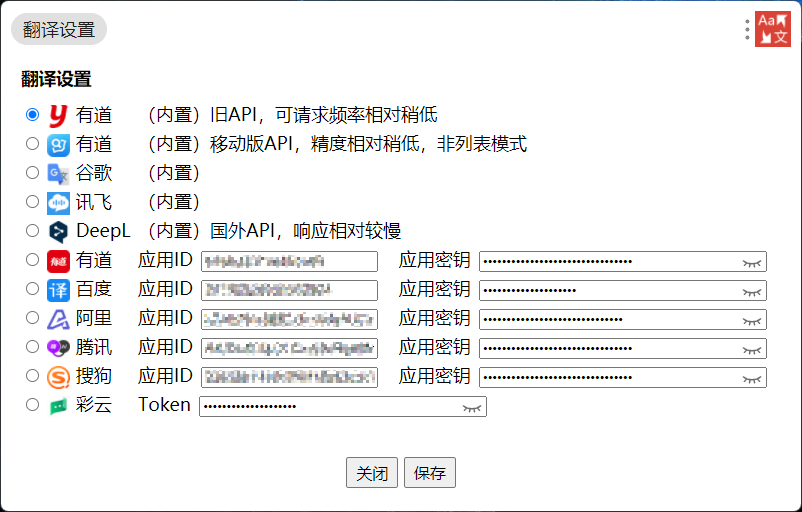
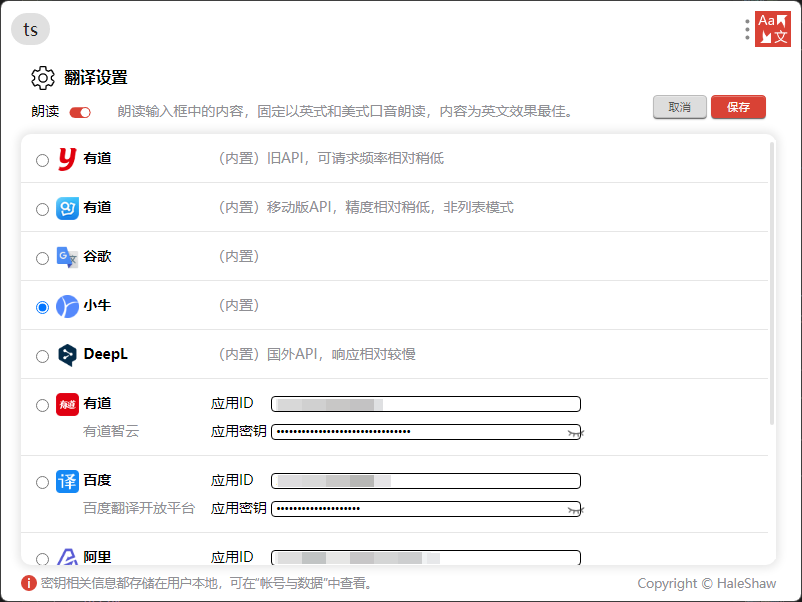
Add the seeting of speak

diff --git a/assets/js/youDao.js b/assets/js/youDao.js
@@ -68,7 +68,7 @@ const errorCodeMsgYouDao = {
   4201: "解密失败",
   4301: "语音识别失败",
   4303: "服务的异常",
-  4411: "API请求太过频繁，请稍后再试",
+  4411: "API请求太过频繁，请稍后再试。可进入设置页面切换其他API",
   4412: "超过最大请求时长",
   5001: "无效的OCR类型",
   5002: "不支持的OCR image类型",
@@ -127,7 +127,7 @@ const errorCodeMsgYouDao = {
   17003: "识别类型未找到",
   17004: "不支持的识别类型",
   17005: "服务调用失败",
-  9999: "其他错误",
+  9999: "其他错误，可进入设置页面切换其他API",
 };
 
 async function lookupYouDao(word) {
@@ -163,16 +163,18 @@ async function lookupYouDao(word) {
     const basic = response.basic;
     if (trans.length != 0) {
       let dataTitle = `<span class="translation">${trans.join(", ")}</span>`;
-      const phoneticEn = getPhoneticEn(word);
-      const phoneticUs = getPhoneticUs(word);
-      if (basic && basic.phonetic && basic.phonetic != "") {
-        if (basic["us-phonetic"] && basic["us-phonetic"] != "") {
-          dataTitle += `<span>英[${basic.phonetic}]</span>${phoneticEn}<span>美[${basic["us-phonetic"]}]</span>${phoneticUs}`;
+      if (speak) {
+        const phoneticEn = getPhoneticEn(word);
+        const phoneticUs = getPhoneticUs(word);
+        if (basic && basic.phonetic && basic.phonetic != "") {
+          if (basic["us-phonetic"] && basic["us-phonetic"] != "") {
+            dataTitle += `<span>英[${basic.phonetic}]</span>${phoneticEn}<span>美[${basic["us-phonetic"]}]</span>${phoneticUs}`;
+          } else {
+            dataTitle += `<span>[${basic.phonetic}]</span>${phoneticEn}`;
+          }
         } else {
-          dataTitle += `<span>[${basic.phonetic}]</span>${phoneticEn}`;
+          dataTitle += `<span>英</span>${phoneticEn}<span>美</span>${phoneticUs}`;
         }
-      } else {
-        dataTitle += `<span>英</span>${phoneticEn}<span>美</span>${phoneticUs}`;
       }
       data.push({ title: dataTitle, description: "翻译结果" });
     }

diff --git a/assets/js/youDaoOld.js b/assets/js/youDaoOld.js
@@ -3,8 +3,8 @@ const errorCodeMsgYouDaoOld = {
   30: "无法进行有效的翻译",
   40: "不支持的语言类型",
   50: "无效的key",
-  302: "API请求太过频繁，请稍后再试",
-  9999: "其他错误",
+  302: "API请求太过频繁，请稍后再试。可进入设置页面切换其他API",
+  9999: "其他错误，可进入设置页面切换其他API",
 };
 async function lookupYouDaoOld(word) {
   const url = options.youDaoOld.api + word;
@@ -16,16 +16,18 @@ async function lookupYouDaoOld(word) {
     const basic = response.basic;
     if (trans != null) {
       let dataTitle = `<span class="translation">${trans.join(", ")}</span>`;
-      const phoneticEn = getPhoneticEn(word);
-      const phoneticUs = getPhoneticUs(word);
-      if (basic && basic.phonetic && basic.phonetic != "") {
-        if (basic["us-phonetic"] && basic["us-phonetic"] != "") {
-          dataTitle += `<span>英[${basic.phonetic}]</span>${phoneticEn}<span>美[${basic["us-phonetic"]}]</span>${phoneticUs}`;
+      if (speak) {
+        const phoneticEn = getPhoneticEn(word);
+        const phoneticUs = getPhoneticUs(word);
+        if (basic && basic.phonetic && basic.phonetic != "") {
+          if (basic["us-phonetic"] && basic["us-phonetic"] != "") {
+            dataTitle += `<span>英[${basic.phonetic}]</span>${phoneticEn}<span>美[${basic["us-phonetic"]}]</span>${phoneticUs}`;
+          } else {
+            dataTitle += `<span>[${basic.phonetic}]</span>${phoneticEn}`;
+          }
         } else {
-          dataTitle += `<span>[${basic.phonetic}]</span>${phoneticEn}`;
+          dataTitle += `<span>英</span>${phoneticEn}<span>美</span>${phoneticUs}`;
         }
-      } else {
-        dataTitle += `<span>英</span>${phoneticEn}<span>美</span>${phoneticUs}`;
       }
       data.push({ title: dataTitle, description: "翻译结果" });
     }

diff --git a/assets/js/tencent.js b/assets/js/tencent.js
@@ -44,8 +44,8 @@ const errorCodeMsgTencent = {
   "FailedOperation.ServiceIsolate": "账号因为欠费停止服务，请在腾讯云账户充值。",
   "FailedOperation.UserNotRegistered": "服务未开通，请在腾讯云官网机器翻译控制台开通服务。",
   "InternalError.BackendTimeout": "后台服务超时，请稍后重试。",
-  "InternalError.ErrorUnknown": "未知错误。",
-  "InternalError.RequestFailed": "请求失败。",
+  "InternalError.ErrorUnknown": "未知错误。可进入设置页面切换其他API",
+  "InternalError.RequestFailed": "请求失败。可进入设置页面切换其他API",
   "InvalidParameter.DuplicatedSessionIdAndSeq": "重复的SessionUuid和Seq组合。",
   "InvalidParameter.SeqIntervalTooLarge": "Seq之间的间隙请不要大于2000。",
   "UnauthorizedOperation.ActionNotFound": "请填写正确的Action字段名称。",
@@ -151,9 +151,13 @@ async function lookupTencent(word) {
   const errorCode = response.Response?.Error?.Code;
   if (!errorCode) {
     const tran = response.Response.TargetText;
-    const phoneticEn = getPhoneticEn(word);
-    const phoneticUs = getPhoneticUs(word);
-    let dataTitle = `<span class="translation">${tran}</span><span>英</span>${phoneticEn}<span>美</span>${phoneticUs}`;
+    let phoneticHtml = "";
+    if (speak) {
+      const phoneticEn = getPhoneticEn(word);
+      const phoneticUs = getPhoneticUs(word);
+      phoneticHtml = `<span>英</span>${phoneticEn}<span>美</span>${phoneticUs}`;
+    }
+    let dataTitle = `<span class="translation">${tran}</span>${phoneticHtml}`;
     data.push({
       title: dataTitle,
       description: "基本释义",

diff --git a/assets/js/setting.js b/assets/js/setting.js
@@ -7,10 +7,6 @@ const options = {
     name: "有道移动版",
     api: "https://m.youdao.com/dict?le=eng&q=",
   },
-  youDaoWeb: {
-    name: "有道网页版",
-    api: "https://fanyi.youdao.com/translate?smartresult=dict&smartresult=rule",
-  },
   google: {
     name: "谷歌",
     api: "translate.google.cn",
@@ -53,7 +49,6 @@ const defaultAPI = Object.keys(options)[4];
 const defaultSpeak = true;
 
 // 设置窗口的高度。
-// const settingHeight = 135 + 29 * 11;
 const settingHeight = 544;
 
 const errMsgEmptyApp = "应用ID或密钥不能为空！";
@@ -62,7 +57,6 @@ function initSetting() {
   utools.setExpendHeight(settingHeight);
   loadConfiguration();
   addSpeakListener();
-  addLangListener();
   addSiteListener();
   addSettingBtnListener();
   addEyeListener();
@@ -216,7 +210,7 @@ function saveConfiguration() {
   utools.dbStorage.setItem("tencentAppSecret", tencentAppSecret);
   utools.dbStorage.setItem("caiYunToken", caiYunToken);
   hideSetting();
-  utools.showNotification(`切换为：${options[option]["name"]}成功！`);
+  utools.showNotification(`切换为${options[option]["name"]}成功！`);
 }
 
 /**
@@ -226,11 +220,15 @@ function addSpeakListener() {
   $("#setting>.speak>img").click(function () {
     speak = !speak;
     utools.dbStorage.setItem("speak", speak);
+    let speakStatus = "";
     if (speak) {
       $(this).attr("src", "./assets/images/speakOn.png");
+      speakStatus = "打开";
     } else {
       $(this).attr("src", "./assets/images/speakOff.png");
+      speakStatus = "关闭";
     }
+    utools.showNotification(`朗读已${speakStatus}！`);
   });
 }
 

diff --git a/assets/js/index.js b/assets/js/index.js
@@ -95,8 +95,7 @@ async function switchApi(word) {
     option == Object.keys(options)[6] ||
     option == Object.keys(options)[7] ||
     option == Object.keys(options)[8] ||
-    option == Object.keys(options)[9] ||
-    option == Object.keys(options)[10]
+    option == Object.keys(options)[9]
   ) {
     $("#page").addClass("hide");
     $("#setting").addClass("hide");
@@ -108,30 +107,27 @@ async function switchApi(word) {
         data = await lookupYouDaoOld(word);
         break;
       case Object.keys(options)[2]:
-        data = await lookupYouDaoWeb(word);
-        break;
-      case Object.keys(options)[3]:
         data = await lookupGoogle(word);
         break;
-      case Object.keys(options)[4]:
+      case Object.keys(options)[3]:
         data = await lookupXiaoNiu(word);
         break;
-      case Object.keys(options)[5]:
+      case Object.keys(options)[4]:
         data = await lookupDeepL(word);
         break;
-      case Object.keys(options)[6]:
+      case Object.keys(options)[5]:
         data = await lookupYouDao(word);
         break;
-      case Object.keys(options)[7]:
+      case Object.keys(options)[6]:
         data = await lookupBaiDu(word);
         break;
-      case Object.keys(options)[8]:
+      case Object.keys(options)[7]:
         data = await lookupAliYun(word);
         break;
-      case Object.keys(options)[9]:
+      case Object.keys(options)[8]:
         data = await lookupTencent(word);
         break;
-      case Object.keys(options)[10]:
+      case Object.keys(options)[9]:
         data = await lookupCaiYun(word);
         break;
       default:

diff --git a/assets/js/aliYun.js b/assets/js/aliYun.js
@@ -13,7 +13,7 @@ const errorCodeMsgAliYun = {
   10011: "子账号服务失败",
   10012: "翻译服务调用失败",
   10013: "账号服务没有开通或者欠费",
-  9999: "其他错误",
+  9999: "其他错误，可进入设置页面切换其他API",
 };
 async function lookupAliYun(word) {
   let data = [];
@@ -66,9 +66,13 @@ async function lookupAliYun(word) {
   }
   const errorCode = res.Code;
   if (errorCode == "200") {
-    const phoneticEn = getPhoneticEn(word);
-    const phoneticUs = getPhoneticUs(word);
-    const dataTitle = `<span class="translation">${res.Data.Translated}</span><span>英</span>${phoneticEn}<span>美</span>${phoneticUs}`;
+    let phoneticHtml = "";
+    if (speak) {
+      const phoneticEn = getPhoneticEn(word);
+      const phoneticUs = getPhoneticUs(word);
+      phoneticHtml = `<span>英</span>${phoneticEn}<span>美</span>${phoneticUs}`;
+    }
+    const dataTitle = `<span class="translation">${res.Data.Translated}</span>${phoneticHtml}`;
     data.push({
       title: dataTitle,
       description: "基本释义",

diff --git a/assets/js/caiYun.js b/assets/js/caiYun.js
@@ -1,5 +1,5 @@
 const errorCodeMsgCaiYun = {
-  "API rate limit exceeded": "API请求太过频繁，请稍后再试",
+  "API rate limit exceeded": "API请求太过频繁，请稍后再试。可进入设置页面切换其他API。",
 };
 async function lookupCaiYun(word) {
   let data = [];
@@ -34,9 +34,13 @@ async function lookupCaiYun(word) {
   if (!message) {
     const tran = response?.target;
     if (tran) {
-      const phoneticEn = getPhoneticEn(word);
-      const phoneticUs = getPhoneticUs(word);
-      let dataTitle = `<span class="translation">${tran}</span><span>英</span>${phoneticEn}<span>美</span>${phoneticUs}`;
+      let phoneticHtml = "";
+      if (speak) {
+        const phoneticEn = getPhoneticEn(word);
+        const phoneticUs = getPhoneticUs(word);
+        phoneticHtml = `<span>英</span>${phoneticEn}<span>美</span>${phoneticUs}`;
+      }
+      let dataTitle = `<span class="translation">${tran}</span>${phoneticHtml}`;
       data.push({
         title: dataTitle,
         description: "基本释义",

diff --git a/assets/js/xiaoNiu.js b/assets/js/xiaoNiu.js
@@ -11,9 +11,13 @@ async function lookupXiaoNiu(word) {
   let resData = JSON.parse(response);
   const tran = resData?.tgt_text;
   if (tran) {
-    const phoneticEn = getPhoneticEn(word);
-    const phoneticUs = getPhoneticUs(word);
-    let dataTitle = `<span class="translation">${tran}</span><span>英</span>${phoneticEn}<span>美</span>${phoneticUs}`;
+    let phoneticHtml = "";
+    if (speak) {
+      const phoneticEn = getPhoneticEn(word);
+      const phoneticUs = getPhoneticUs(word);
+      phoneticHtml = `<span>英</span>${phoneticEn}<span>美</span>${phoneticUs}`;
+    }
+    let dataTitle = `<span class="translation">${tran}</span>${phoneticHtml}`;
     data.push({
       title: dataTitle,
       description: "基本释义",
@@ -21,7 +25,7 @@ async function lookupXiaoNiu(word) {
   } else {
     data.push({
       title: errTitle,
-      description: "翻译错误",
+      description: "翻译错误，可进入设置页面切换其他API",
     });
   }
   return data;

diff --git a/index.html b/index.html
@@ -81,18 +81,6 @@
             <a class="comment">（内置）</a>
           </div>
         </div>
-        <div class="service youDaoWeb">
-          <div class="api">
-            <label>
-              <input name="service" type="radio" value="youDaoWeb" />
-              <img src="./assets//images/icon/youDao.png" />
-              <span>有道</span>
-            </label>
-          </div>
-          <div class="detail">
-            <a class="comment">（内置）网页版API</a>
-          </div>
-        </div>
         <div class="service xiaoNiu">
           <div class="api">
             <label>
@@ -279,7 +267,6 @@
     </div>
     <script src="assets/js/utils.js"></script>
     <script src="assets/js/youDaoOld.js"></script>
-    <script src="assets/js/youDaoWeb.js"></script>
     <script src="assets/js/youDaoWap.js"></script>
     <script src="assets/js/google.js"></script>
     <script src="assets/js/tencent.js"></script>

diff --git a/assets/js/deepL.js b/assets/js/deepL.js
@@ -47,9 +47,13 @@ async function lookupDeepL(word) {
       let beams = trans[i].beams;
       for (let j = 0; j < beams.length; j++) {
         if (i == 0 && j == 0) {
-          const phoneticEn = getPhoneticEn(word);
-          const phoneticUs = getPhoneticUs(word);
-          dataTitle = `<span class="translation">${beams[j].postprocessed_sentence}</span><span>英</span>${phoneticEn}<span>美</span>${phoneticUs}`;
+          let phoneticHtml = "";
+          if (speak) {
+            const phoneticEn = getPhoneticEn(word);
+            const phoneticUs = getPhoneticUs(word);
+            phoneticHtml = `<span>英</span>${phoneticEn}<span>美</span>${phoneticUs}`;
+          }
+          dataTitle = `<span class="translation">${beams[j].postprocessed_sentence}</span>${phoneticHtml}`;
         } else {
           dataTitle = beams[j].postprocessed_sentence;
         }

diff --git a/assets/js/baiDu.js b/assets/js/baiDu.js
@@ -41,12 +41,16 @@ async function lookupBaiDu(word) {
   if (!errorCode) {
     const trans = response.trans_result;
     if (trans && trans.length != 0) {
-      const phoneticEn = getPhoneticEn(word);
-      const phoneticUs = getPhoneticUs(word);
+      let phoneticHtml = "";
+      if (speak) {
+        const phoneticEn = getPhoneticEn(word);
+        const phoneticUs = getPhoneticUs(word);
+        phoneticHtml = `<span>英</span>${phoneticEn}<span>美</span>${phoneticUs}`;
+      }
       for (let i = 0; i < trans.length; i++) {
         let dataTitle = `<span class="translation">${trans[i].dst}</span>`;
         if (i == 0) {
-          dataTitle += `<span>英</span>${phoneticEn}<span>美</span>${phoneticUs}`;
+          dataTitle += phoneticHtml;
         }
         data.push({
           title: dataTitle,

diff --git a/assets/js/google.js b/assets/js/google.js
@@ -26,12 +26,16 @@ async function lookupGoogle(word) {
   }
 
   if (trans && trans.length != 0) {
-    const phoneticEn = getPhoneticEn(word);
-    const phoneticUs = getPhoneticUs(word);
+    let phoneticHtml = "";
+    if (speak) {
+      const phoneticEn = getPhoneticEn(word);
+      const phoneticUs = getPhoneticUs(word);
+      phoneticHtml = `<span>英</span>${phoneticEn}<span>美</span>${phoneticUs}`;
+    }
     for (let i = 0; i < trans.length; i++) {
       let dataTitle = `<span class="translation">${trans[i]}</span>`;
       if (i == 0) {
-        dataTitle += `<span>英</span>${phoneticEn}<span>美</span>${phoneticUs}`;
+        dataTitle += phoneticHtml;
       }
       data.push({
         title: dataTitle,
